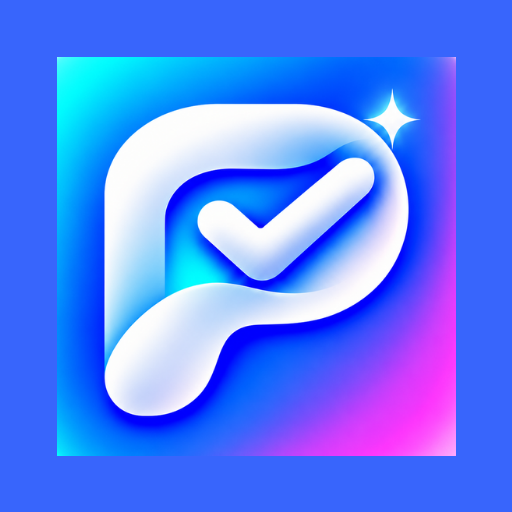
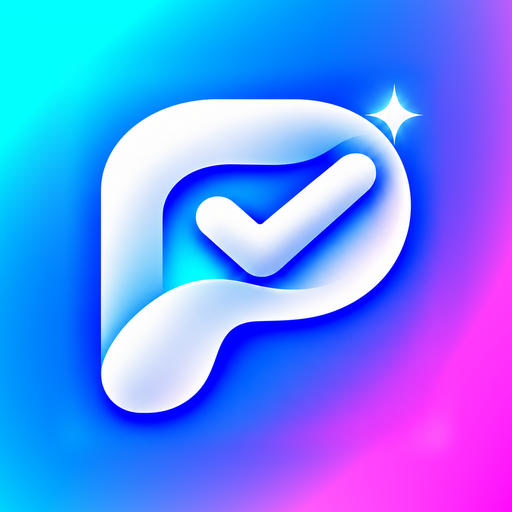
feat(assets): maskable 아이콘을 제공 풀블리드 아트로 교체
Generated with [Devin](https://devin.ai)

diff --git a/docs/dev/CHANGES.md b/docs/dev/CHANGES.md
@@ -1,5 +1,9 @@
 # 코드 리뷰 수정 내역 (1~12 순차수정)
 
+## 2026-11-03 feat(assets): maskable 아이콘을 제공 풀블리드 아트로 교체
+
+- 사용자 제공 `icon-512-maskable.png`(풀블리드 그라디언트)을 정본 `passok-icon-maskable-512.png`로 적용 — 어댑티브 마스크 어디서 잘려도 동일 톤
+
 ## 2026-11-03 fix(assets): 아이콘 원본 파일명 규약 교정 — passok-icon-1024.png
 
 - `passok_icon_1024.png` 언더스코어가 CODE_CONVENTIONS 파일명 규칙 위반으로 CI 차단 — 하이픈 명명으로 개명 + 고아 예외 명단 키 갱신
